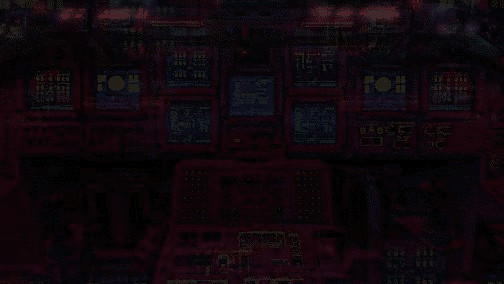
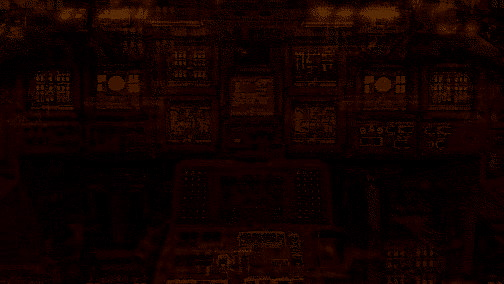
new colorscheme

diff --git a/index.js b/index.js
@@ -357,10 +357,10 @@ legs popping out of it (yes, you can hold your comments about robots. Thank you)
 `I haven't known computers to lay bricks, cook and clean, or do laundry for 
 example.
 
-Alright, so the work that computers can do is called <span class="cyan">"DATA PROCESSING"</span>. And that 
+Alright, so the work that computers can do is called <span class="highlight">"DATA PROCESSING"</span>. And that 
 is actually the only kind of work they can do. 
 
-Now that's not a very widely used term: <span class="cyan">"DATA PROCESSING"</span>. So what is it?
+Now that's not a very widely used term: <span class="highlight">"DATA PROCESSING"</span>. So what is it?
 
 I think the best way to explain is to go back in time a ways and tell you a 
 story. It's about arguably the first impactful use of electronic computing 
@@ -477,12 +477,12 @@ you do on yours. Hopefully you have a windows computer! If you use a Mac, you ca
 still follow along, you may just have to look up a couple things on your own 
 (ChatGPT will come in handy for that!) sorry about that! We're using windows 
 because guess what? Most people use windows.`,
-`Ok, next let me introduce you to my old friend, <span class="cyan">[alt]-[tab]</span>. It's gonna be a 
-life-saver for you. Hold down <span class="cyan">[alt]</span> with your thumb and tap <span class="cyan">[tab]</span> with your 
-pinky. Now when you release <span class="cyan">[alt]</span> it will take you to whatever window you have 
-highlighted. (you can press <span class="cyan">[tab]</span> multiple times to cycle through the different 
+`Ok, next let me introduce you to my old friend, <span class="highlight">[alt]-[tab]</span>. It's gonna be a 
+life-saver for you. Hold down <span class="highlight">[alt]</span> with your thumb and tap <span class="highlight">[tab]</span> with your 
+pinky. Now when you release <span class="highlight">[alt]</span> it will take you to whatever window you have 
+highlighted. (you can press <span class="highlight">[tab]</span> multiple times to cycle through the different 
 windows)
-Do it with me now: <span class="cyan">[alt]-[tab]</span>, <span class="cyan">[alt]-[tab]</span>. Perfect!
+Do it with me now: <span class="highlight">[alt]-[tab]</span>, <span class="highlight">[alt]-[tab]</span>. Perfect!
     
 (I designed this website to work well in full-screen. Press F11)
     
@@ -528,7 +528,7 @@ probably just hiding.
 
 
 
-Search "show file extensions" on the windows search bar and press <span class="cyan">[enter]<span>. 
+Search "show file extensions" on the windows search bar and press <span class="highlight">[enter]<span>. 
 
 <img class="image" src="images/02-show-file-extensions.jpg" width="40%"/>`,
 `
@@ -574,7 +574,7 @@ Disable "Hide extensions for known file types".
 
 <img class="image" src="images/02-hide-extensions.jpg" width="50%"/>`,
 `Ok, now you'll see "-.jpg" or "-.png" or something similar at the end of your 
-file at home. If you were unaware, this part of the filename is called the <span class="cyan">FILE 
+file at home. If you were unaware, this part of the filename is called the <span class="highlight">FILE 
 EXTENSION</span>. It's meant to give your computer's system an idea of how this file was 
 intended to be processed when it was given to you. `,
 `
@@ -654,7 +654,7 @@ image file.
 `Ok, remember when I said earlier that computers are all just zeroes and ones? 
 It's true. Now I can already hear you: "that doesn't look like zeroes and ones to 
 me!". Well, you're kind of right. What you're looking at here is called 
-<span class="cyan">HEXIDECIMAL NOTATION</span>. It's a way of notating zeroes and ones.
+<span class="highlight">HEXIDECIMAL NOTATION</span>. It's a way of notating zeroes and ones.
 
 Still confused? No worries! Everything will be made clear. And to help us on our 
 way, I have another story for you!`,
@@ -669,15 +669,15 @@ church and see whether there was one light or two lights. That was all he needed
 to know where the British were coming from.
 
 Now think about that... you can communicate very critical information with 
-someone just with two observable devices (lanterns in this case) being <span class="cyan">on or off<span>. 
+someone just with two observable devices (lanterns in this case) being <span class="highlight">on or off<span>. 
 Pretty neat, right?`,
 `Here's another example: did you ever watch Return of the King? At one point, 
 Pippin has to go up and light the beacon. The light from the beacon would go from 
 Minas Terith all the way over to Rohan to communicate a very important message: 
 If the beacon is off, that means "Hey, you know, we're chilling", but as soon as 
 that beacon is lit that means, "Uh oh! Something's going down! We're in 
-trouble!". That proves you can communicate with someone and indicate <span class="cyan">one of two 
-different situations</span> with even just one thing being <span class="cyan">on or off</span>.
+trouble!". That proves you can communicate with someone and indicate <span class="highlight">one of two 
+different situations</span> with even just one thing being <span class="highlight">on or off</span>.
 
 Now think about Paul Revere's case. How come he needed two lights? Pippin was 
 able to indicate one of two different situations with one light. If Robert and 
@@ -693,10 +693,10 @@ those situations since there were more than two.
 Quick note: There is a key component to being able to communicate with lights. 
 You need a shared understanding between the person turning the lights on and off 
 and the person who is looking at the lights. Of course, everyone refers to this 
-kind of shared understanding as a <span class="cyan">code!</span> If someone was going for an evening 
+kind of shared understanding as a <span class="highlight">code!</span> If someone was going for an evening 
 stroll near Boston and they saw some lights up in the steeple of the Old North 
 Church, they would probably think "huh, I wonder what those lights are there 
-for?", but that would be about it. Only the ones who knew the <span class="cyan">code</span> could make 
+for?", but that would be about it. Only the ones who knew the <span class="highlight">code</span> could make 
 sense of those lights.`,
 `Now if you know what you're doing, you can actually indicate more than three 
 possible situations with two lights (This may not have worked in Paul Revere's 
@@ -710,45 +710,45 @@ suppose, but bear with me)? Obviously two, one with the light off, and the other
 with it on.
 <span class="white">
                    Light 1 
-    Combination 1: ○ <span class="gray">(off)</span>
-    Combination 2: <span class="cyan">●</span> <span class="gray">(on)</span>
+    Combination 1: <span class="gray">○ (off)</span>
+    Combination 2: ● <span class="gray">(on)</span>
 </span>`,
 `So if you have two lights, you have all the combinations of the first one 
 with the second one off (study these figures carefully. The first light is on 
 the left of the second light):
 <span class="white">
                    L2 L1 
-    Combination 1: ○  ○ <span class="gray">(off, off)</span>
-    Combination 2: ○  <span class="cyan">●</span> <span class="gray">(off, on)</span>
+    Combination 1: <span class="gray">○  ○ (off, off)</span>
+    Combination 2: <span class="gray">○</span>  <span class="white">●</span> <span class="gray">(off, on)</span>
  </span>   
 And all the combinations of the first light with the second one on:
 <span class="white">
                    L2 L1 
-    Combination 3: <span class="cyan">●</span>  ○ <span class="gray">(on, off)</span>
-    Combination 4: <span class="cyan">●  ●</span> <span class="gray">(on, on)</span>
+    Combination 3: <span class="white">●</span>  <span class="gray">○ (on, off)</span>
+    Combination 4: <span class="white">●  ●</span> <span class="gray">(on, on)</span>
  </span>   
 Here they are all together:
 <span class="white">
                    L2 L1 
-    Combination 1: ○  ○ <span class="gray">(off, off)</span>
-    Combination 2: ○  <span class="cyan">●</span> <span class="gray">(off, on)</span>
-    Combination 3: <span class="cyan">●</span>  ○ <span class="gray">(on, off)</span>
-    Combination 4: <span class="cyan">●  ●</span> <span class="gray">(on, on)</span>
+    Combination 1: <span class="gray">○  ○ (off, off)</span>
+    Combination 2: <span class="gray">○</span>  <span class="white">●</span> <span class="gray">(off, on)</span>
+    Combination 3: <span class="white">●</span>  <span class="gray">○ (on, off)</span>
+    Combination 4: <span class="white">●  ●</span> <span class="gray">(on, on)</span>
 </span>   
 Yep, those are all unique combinations! `,
 `Maybe you would want to communicate a cardinal direction with somebody:
 <span class="white">
            L2 L1 
     North: ○  ○                            
-    South: ○  <span class="cyan">●</span>
-    West:  <span class="cyan">●</span>  ○  
-    East:  <span class="cyan">●  ●</span>
+    South: ○  <span class="white">●</span>
+    West:  <span class="white">●</span>  ○  
+    East:  <span class="white">●  ●</span>
 </span>   
-Two lights would be enough for that! We would call a chart like this an <span class="cyan">ENCODING 
+Two lights would be enough for that! We would call a chart like this an <span class="highlight">ENCODING 
 STANDARD</span>. All that means is that we've decided ahead of time all the different 
 situations we want to indicate for a data-point and assigned a unique combination 
-of lights to each one. Right? We've come up with a <span class="cyan">STANDARD</span> that we can share 
-with anyone in the world that will allow them to correctly interpret or <span class="cyan">DECODE</span> 
+of lights to each one. Right? We've come up with a <span class="highlight">STANDARD</span> that we can share 
+with anyone in the world that will allow them to correctly interpret or <span class="highlight">DECODE</span> 
 our data.
 `,
 `
@@ -760,9 +760,9 @@ our data.
             ▼  ▼
    ┌─────────────┐
    │ North: ○  ○ │  
-   │ South: ○  <span class="cyan">●</span> │ <span class="gray">ENCODING STANDARD</span>
-   │ West:  <span class="cyan">●</span>  ○ │ 
-   │ East:  <span class="cyan">●  ●</span> │
+   │ South: ○  <span class="white">●</span> │ <span class="gray">ENCODING STANDARD</span>
+   │ West:  <span class="white">●</span>  ○ │ 
+   │ East:  <span class="white">●  ●</span> │
    └─────────────┘
             ▼  ▼
          ┌───────┐

diff --git a/index.css b/index.css
@@ -11,9 +11,10 @@
   /*
   --article_top
   */
-  --pink:  #FF0055;
-  --cyan:  #00FFD4;
-  --green: #00FF7F;
+  --main:      #C69961;
+  --highlight: #A07394;
+  --cyan:      #00FFFF;
+  --link:      #6CB772;
   --nav-width: 10ch;
   --nav-domain: calc(25em * 1.15);
 }
@@ -25,7 +26,7 @@ html, body {
 * {
   font-family: "CascadiaCodeNF", monospace;
   font-size: 32px;
-  color: var(--pink);
+  color: var(--main);
   line-height: 1.15;
 }
 
@@ -36,7 +37,7 @@ html, body {
 }
 
 .invert {
-  background: var(--pink);
+  background: var(--main);
   color: black;
 }
 
@@ -48,12 +49,16 @@ html, body {
   color: rgb(200, 200, 200);
 }
 
+.highlight {
+  color: var(--highlight);
+}
+
 .cyan {
   color: var(--cyan);
 }
 
-.green {
-  color: var(--green);
+.link {
+  color: var(--link);
 }
 
 .inline {
@@ -62,7 +67,7 @@ html, body {
 
 :focus {
   outline: solid white;
-  background: var(--pink);
+  background: var(--main);
   color: black;
   border: none;
   cursor: pointer;
@@ -132,13 +137,13 @@ article {
   padding-bottom: 0;
 }
 #nav li:hover {
-  background: var(--pink);
+  background: var(--main);
   color: black;
   border: none;
   cursor: pointer;
 }
 #nav li.selected {
-  background: var(--pink);
+  background: var(--main);
   color: black;
   border: none;
   cursor: pointer;
@@ -171,13 +176,13 @@ article {
   cursor: pointer;
 }
 #nav-bottom-buttons button:hover{
-  background: var(--pink);
+  background: var(--main);
   color: black;
   border: none;
   cursor: pointer;
 }
 #nav-bottom-buttons button:focus {
-  background: var(--pink);
+  background: var(--main);
 }
 
 #nav-down {
